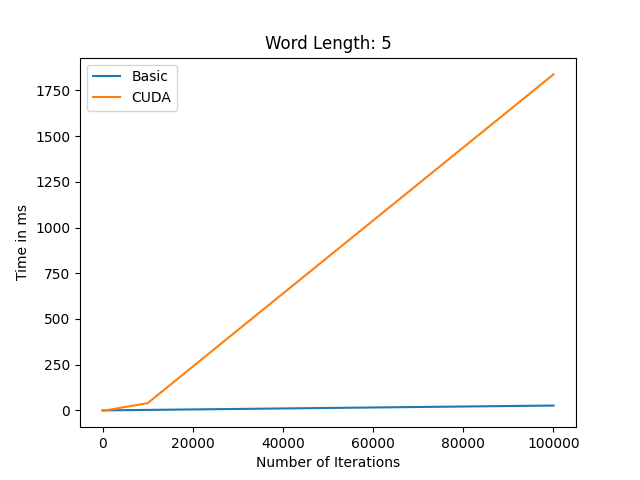
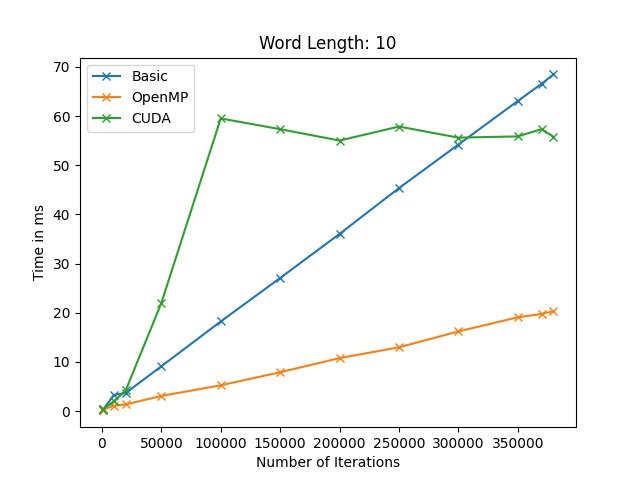
Final plot
benchmark.py now runs only for 10 word size and upto 370000 iterations

diff --git a/benchmark.py b/benchmark.py
@@ -17,15 +17,15 @@ def buildDict(logs_type):
     
 
 
-numIterations = [512, 1024, 10000, 20000, 40000, 60000, 80000, 100000]
-numLengths = [10, 32, 70]
+numIterations = [512, 1024, 10000, 20000, 50000, 100000, 150000, 200000, 250000, 300000, 350000, 370000]
+numLengths = [10]
 
 for length in numLengths:
     for iteration in numIterations:
         #print("running: ", length, " ", iteration, "\n")
         openmp = "./Openmp.o " + str(length) + " " + str(iteration) + " " + str(8)
         basic = "./Basic.o " + str(length) + " " + str(iteration)  
-        cuda = "./Cuda.o " + str(length) + " " + str(iteration) + " " + str(100) + " " + str(512)
+        cuda = "./Cuda.o " + str(length) + " " + str(iteration) + " " + str(100) + " " + str(500)
         #print(basic)
         os.system(cuda)
         os.system(openmp)
@@ -64,14 +64,11 @@ for wordLen in numLengths:
     y_cuda = cuda_dict[wordLen]
 
     plt.figure()
-    plt.plot(x, y_basic, marker="D", label = "Basic")
-    plt.plot(x, y_openmp, marker="D", label = "OpenMP")
-    plt.plot(x, y_cuda, marker="D", label="CUDA")
+    plt.plot(x, y_basic, marker="x", label = "Basic")
+    plt.plot(x, y_openmp, marker="x", label = "OpenMP")
+    plt.plot(x, y_cuda, marker="x", label="CUDA")
     plt.legend()
     plt.title("Word Length: " + str(wordLen))
     plt.xlabel("Number of Iterations")
     plt.ylabel("Time in ms")
 plt.show()
-
-
-
